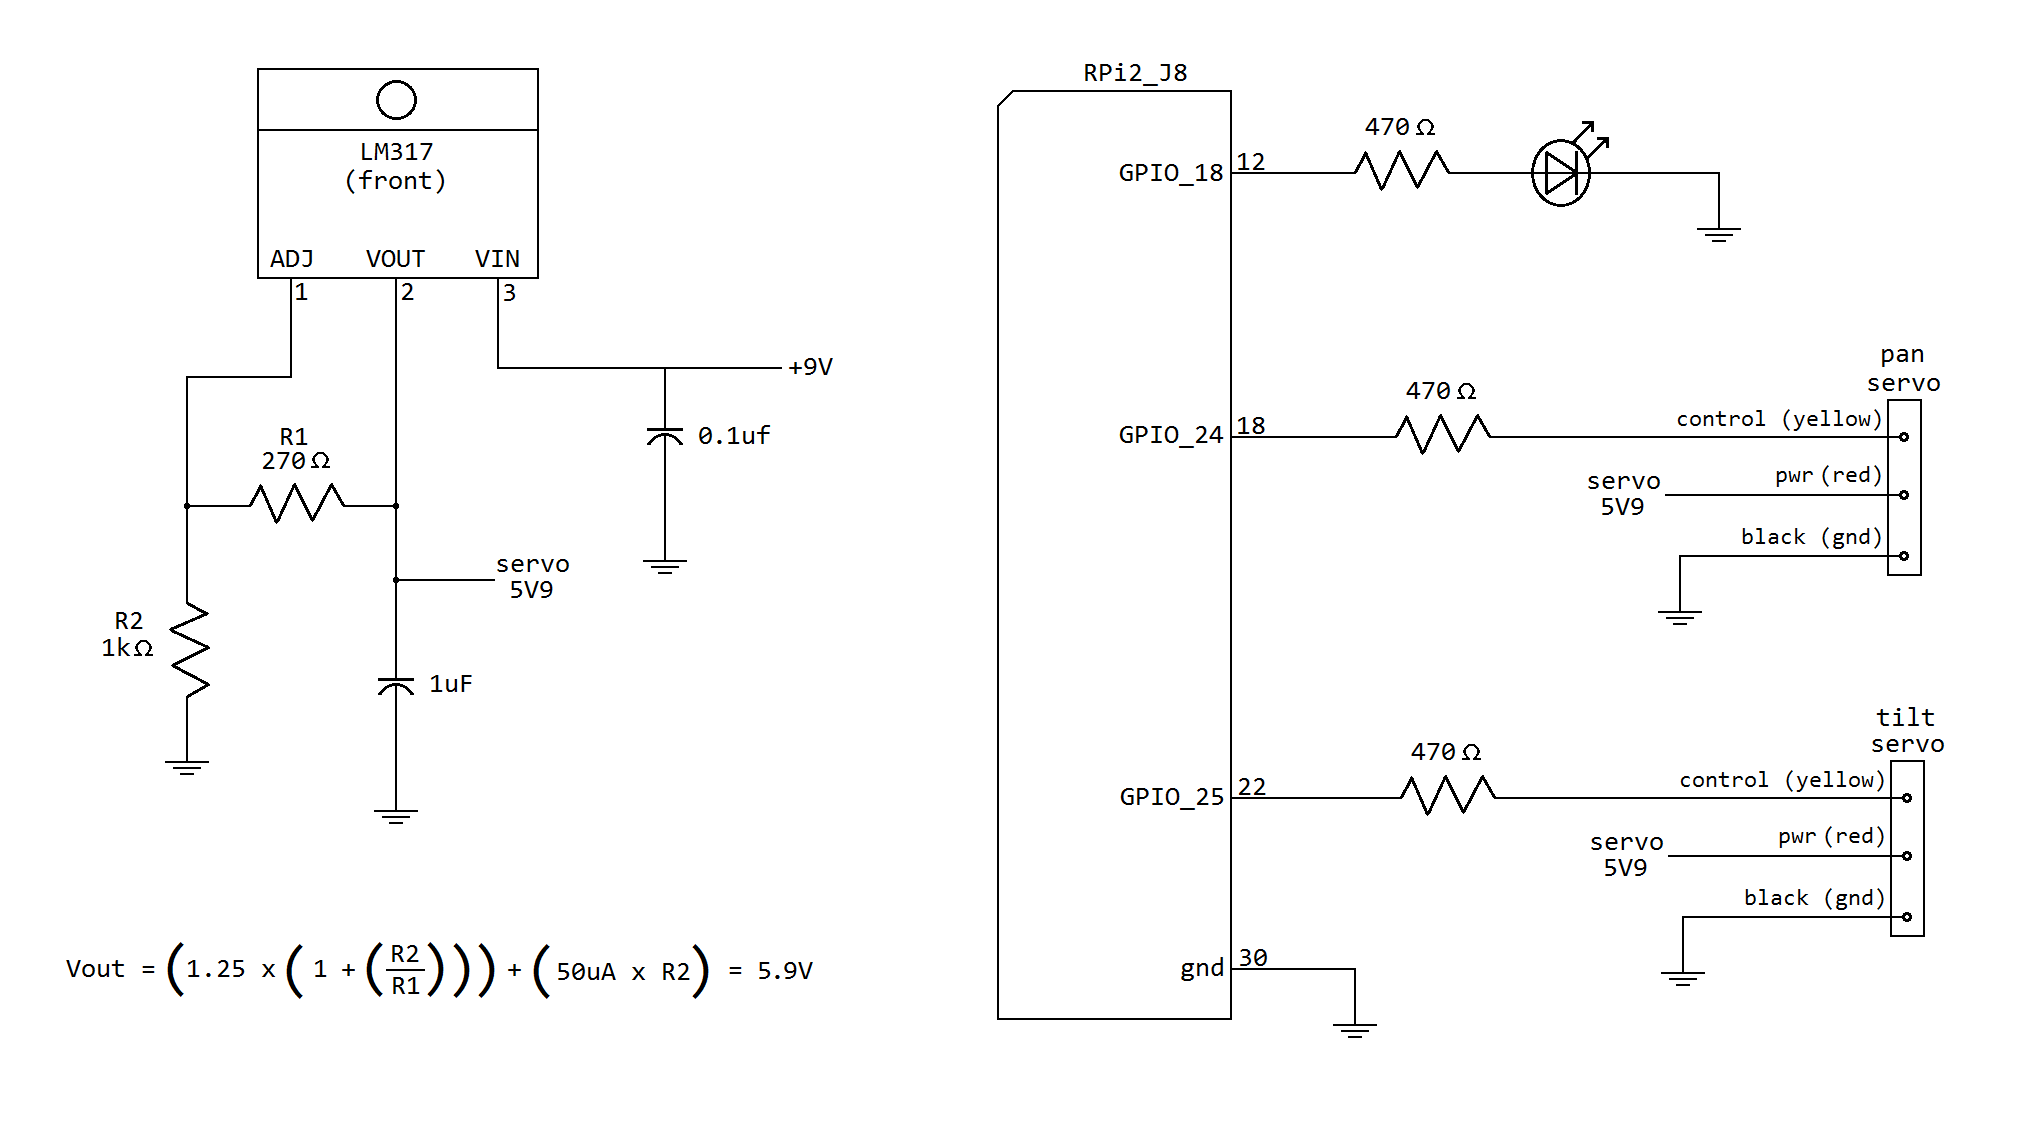
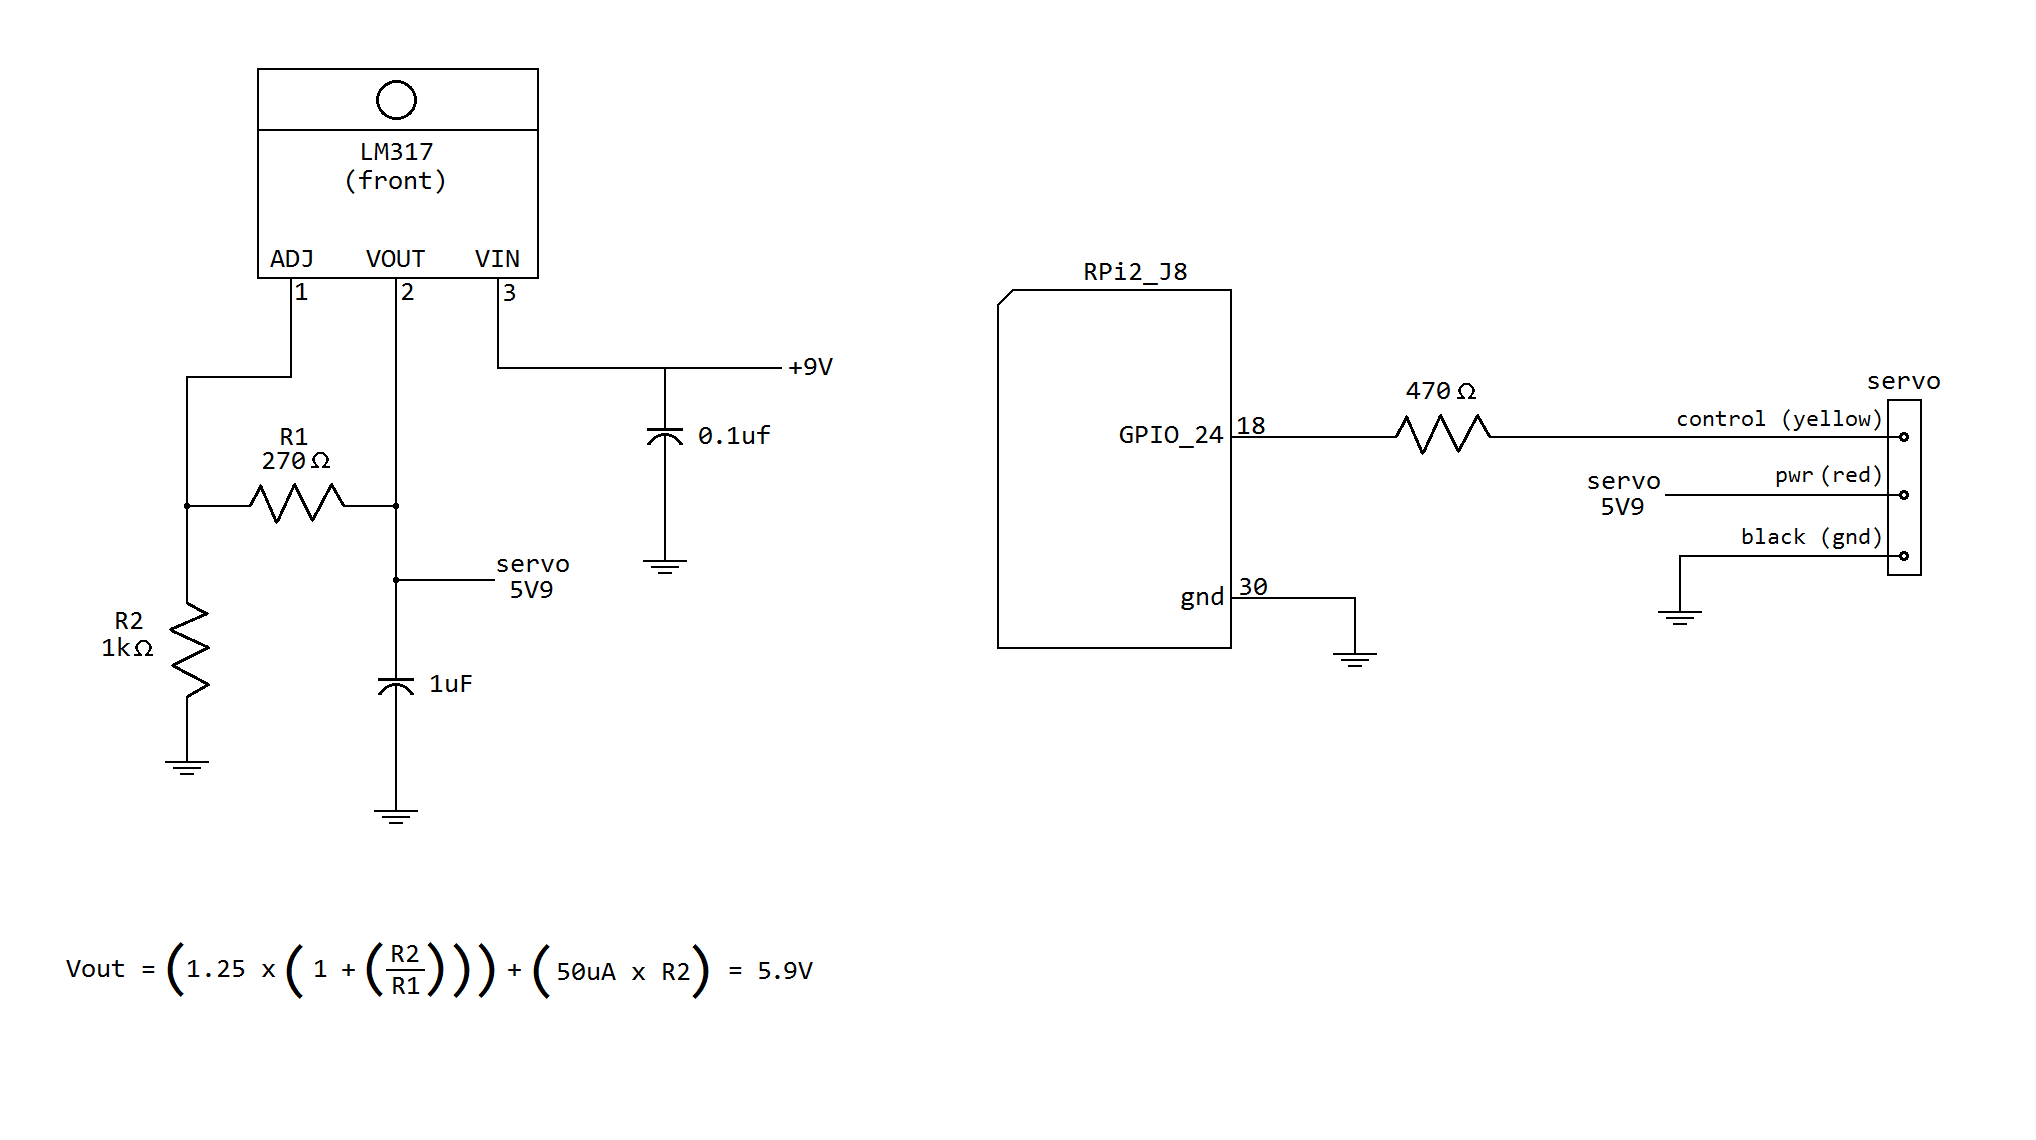
1

diff --git a/pan_and_tilt_tracker.py b/pan_and_tilt_tracker.py
@@ -1,0 +1,169 @@
+# pan_and_tilt_tracker.py
+
+# to run this program, type:
+# sudo python pan_and_tilt_tracker.py headed          (GUI)
+# sudo python pan_and_tilt_tracker.py headless        (no GUI (for embedded use))
+
+# this program pans/tilts two servos so a mounted webcam tracks a red ball
+
+# use the circuit from "pan_and_tilt_tracker.png"
+
+import RPi.GPIO as GPIO
+import cv2
+import numpy as np
+import os
+import sys
+from operator import itemgetter
+
+###################################################################################################
+def main():
+    headed_or_headless = ""
+
+    if len(sys.argv) == 2 and str(sys.argv[1]) == "headed":
+        headed_or_headless = "headed"
+        print "entering headed mode"
+    elif len(sys.argv) == 2 and str(sys.argv[1]) == "headless":
+        headed_or_headless = "headless"
+        print "entering headless mode"
+    else:
+        print "\nprogram usage:\n"
+        print "for headed mode (GUI interface) @command prompt type: sudo python pan_and_tilt_tracker.py headed\n"
+        print "for headless mode (no GUI interface, i.e. embedded mode) @ command prompt type: sudo python pan_and_tilt_tracker.py headless\n"
+        return
+
+    GPIO.setmode(GPIO.BCM)              # use GPIO pin numbering, not physical pin numbering
+
+    pan_gpio_pin = 24
+    tilt_gpio_pin = 25
+
+    pwmFrequency = 100                 # frequency in Hz
+    pwmInitialDutyCycle = 14           # initial duty cycle in %
+
+    GPIO.setup(pan_gpio_pin, GPIO.OUT)
+    GPIO.setup(tilt_gpio_pin, GPIO.OUT)
+
+    pwmPanObject = GPIO.PWM(pan_gpio_pin, pwmFrequency)
+    pwmTiltObject = GPIO.PWM(tilt_gpio_pin, pwmFrequency)
+
+    pwmPanObject.start(pwmInitialDutyCycle)
+    pwmTiltObject.start(pwmInitialDutyCycle)
+
+    capWebcam = cv2.VideoCapture(0)                     # declare a VideoCapture object and associate to webcam, 0 => use 1st webcam
+
+    print "default resolution = " + str(capWebcam.get(cv2.CAP_PROP_FRAME_WIDTH)) + "x" + str(capWebcam.get(cv2.CAP_PROP_FRAME_HEIGHT))
+
+    capWebcam.set(cv2.CAP_PROP_FRAME_WIDTH, 320.0)
+    capWebcam.set(cv2.CAP_PROP_FRAME_HEIGHT, 240.0)
+
+    print "updated resolution = " + str(capWebcam.get(cv2.CAP_PROP_FRAME_WIDTH)) + "x" + str(capWebcam.get(cv2.CAP_PROP_FRAME_HEIGHT))
+
+    if capWebcam.isOpened() == False:                           # check if VideoCapture object was associated to webcam successfully
+        print "error: capWebcam not accessed successfully\n\n"          # if not, print error message to std out
+        os.system("pause")                                              # pause until user presses a key so user can see error message
+        return                                                          # and exit function (which exits program)
+
+    intXFrameCenter = int(float(capWebcam.get(cv2.CAP_PROP_FRAME_WIDTH)) / 2.0)
+    intYFrameCenter = int(float(capWebcam.get(cv2.CAP_PROP_FRAME_WIDTH)) / 2.0)
+
+    panServoPosition = int(90)           # pan servo position in degrees
+    tiltServoPosition = int(90)          # tilt servo position in degrees
+
+    updateServoMotorPositions(pwmPanObject, panServoPosition, pwmTiltObject, tiltServoPosition)
+
+    try:
+        while cv2.waitKey(1) != 27 and capWebcam.isOpened():                # until the Esc key is pressed or webcam connection is lost
+            blnFrameReadSuccessfully, imgOriginal = capWebcam.read()            # read next frame
+
+            if not blnFrameReadSuccessfully or imgOriginal is None:             # if frame was not read successfully
+                print "error: frame not read from webcam\n"                     # print error message to std out
+                os.system("pause")                                              # pause until user presses a key so user can see error message
+                break                                                           # exit while loop (which exits program)
+
+            imgHSV = cv2.cvtColor(imgOriginal, cv2.COLOR_BGR2HSV)
+
+            imgThreshLow = cv2.inRange(imgHSV, np.array([0, 135, 155]), np.array([19, 255, 255]))
+            imgThreshHigh = cv2.inRange(imgHSV, np.array([170, 135, 155]), np.array([179, 255, 255]))
+
+            imgThresh = cv2.add(imgThreshLow, imgThreshHigh)
+
+            imgThresh = cv2.GaussianBlur(imgThresh, (3, 3), 2)
+
+            imgThresh = cv2.dilate(imgThresh, np.ones((5,5),np.uint8))
+            imgThresh = cv2.erode(imgThresh, np.ones((5,5),np.uint8))
+
+            intRows, intColumns = imgThresh.shape
+
+            circles = cv2.HoughCircles(imgThresh, cv2.HOUGH_GRADIENT, 3, intRows / 4)      # fill variable circles with all circles in the processed image
+
+            if circles is not None:                     # this line is necessary to keep program from crashing on next line if no circles were found
+
+                sortedCircles = sorted(circles[0], key = itemgetter(2), reverse = True)
+
+                largestCircle = sortedCircles[0]
+
+                x, y, radius = largestCircle                                                                       # break out x, y, and radius
+                print "ball position x = " + str(x) + ", y = " + str(y) + ", radius = " + str(radius)       # print ball position and radius
+
+                if x < intXFrameCenter and panServoPosition >= 2:
+                    panServoPosition = panServoPosition - 2
+                elif x > intXFrameCenter and panServoPosition <= 178:
+                    panServoPosition = panServoPosition + 2
+                # end if else
+
+                if y < intYFrameCenter and tiltServoPosition >= 62:
+                    tiltServoPosition = tiltServoPosition - 2
+                elif y > intYFrameCenter and tiltServoPosition <= 133:
+                    tiltServoPosition = tiltServoPosition + 2
+                # end if else
+
+                updateServoMotorPositions(pwmPanObject, panServoPosition, pwmTiltObject, tiltServoPosition)
+
+                if headed_or_headless == "headed":
+                    cv2.circle(imgOriginal, (x, y), 3, (0, 255, 0), -1)           # draw small green circle at center of detected object
+                    cv2.circle(imgOriginal, (x, y), radius, (0, 0, 255), 3)                     # draw red circle around the detected object
+                # end if
+
+            # end if
+
+            if headed_or_headless == "headed":
+                cv2.imshow("imgOriginal", imgOriginal)                 # show windows
+                cv2.imshow("imgThresh", imgThresh)
+            # end if
+        # end while
+    except KeyboardInterrupt:       # exit cleanly when Ctrl+C is pressed
+        GPIO.cleanup()
+    # end try except
+
+    cv2.destroyAllWindows()                     # remove windows from memory
+
+    return
+# end main
+
+###################################################################################################
+def updateServoMotorPositions(pwmPanObject, panServoPosition, pwmTiltObject, tiltServoPosition):
+    panDutyCycle = ((float(panServoPosition) * 0.01) + 0.5) * 10
+    tiltDutyCycle = ((float(tiltServoPosition) * 0.01) + 0.5) * 10
+
+    pwmPanObject.ChangeDutyCycle(panDutyCycle)
+    pwmTiltObject.ChangeDutyCycle(tiltDutyCycle)
+# end function
+
+###################################################################################################
+if __name__ == "__main__":
+    main()
+
+
+
+
+
+
+
+
+
+
+
+
+
+
+
+

diff --git a/simple_servo.py b/simple_servo.py
@@ -1,0 +1,31 @@
+# simple_servo.py
+
+# use the circuit from "simple_servo.png"
+
+import RPi.GPIO as GPIO
+
+###################################################################################################
+def main():
+    GPIO.setmode(GPIO.BCM)      # use GPIO pin numbering, not physical pin numbering
+
+    led_gpio_pin = 24
+
+    GPIO.setup(led_gpio_pin, GPIO.OUT)
+
+    pwmObject = GPIO.PWM(led_gpio_pin, 100)         # frequency = 100 Hz
+
+    pwmObject.start(14)             # initial duty cycle = 14# %
+
+    while True:
+        strAngle = raw_input("enter desired angle (0 to 180): ")
+        intAngle = int(strAngle)
+        dutyCycle = ((float(intAngle) * 0.01) + 0.5) * 10
+        pwmObject.ChangeDutyCycle(dutyCycle)
+    # end while
+
+    return
+
+###################################################################################################
+if __name__ == "__main__":
+    main()
+
